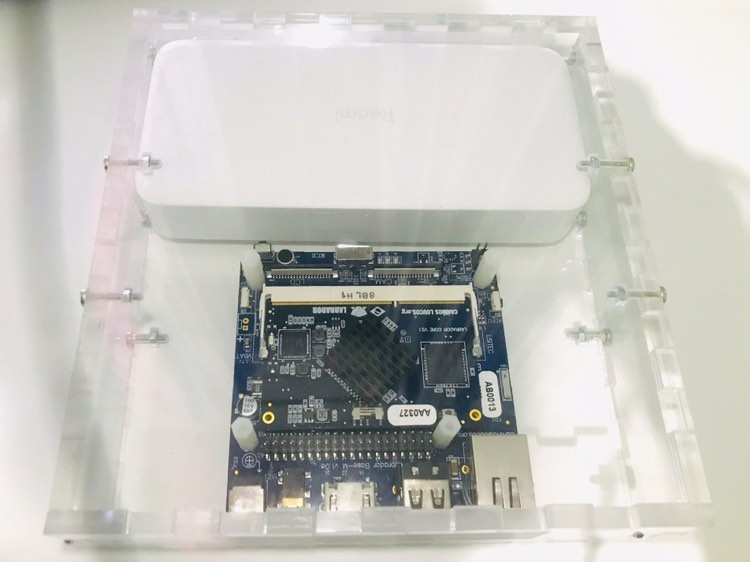
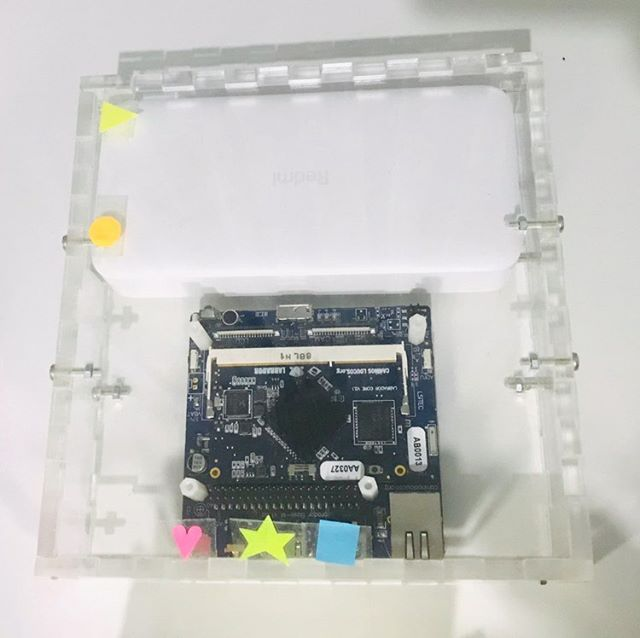
Imagens com adesivos

diff --git a/Manual.md b/Manual.md
@@ -1,89 +1,88 @@
 ## Manual de utilização do Kit-Aluno
 
-Olá! Com este material você irá aprender a montar o seu computador para que ele possa te auxiliar durante as aulas. Então pegue uma das maletas com os dispositivos e vamos nessa!
+Olá! Com este material você vai aprender a montar o seu computador para que ele possa te ajudar durante as aulas. Então pegue uma das caixinhas com os dispositivos e vamos nessa!
 
-O kit que você acaba de receber nada mais é do que um computador igual aos que você já deve conhecer, com a diferença de que ele é menor e portátil. As peças que você pode ver nele existem em qualquer computador comum, mas em outros computadores elas estão sempre conectadas e com uma carcaça protetora que impede que você possa vê-las, mas nesse kit você pode visualizá-las, conectar cada parte e entender o que cada uma faz. 
+O kit que você acaba de receber é um computador igual aos que você já deve conhecer, com a diferença de que ele é menor e portátil. As peças que você pode ver nele existem em qualquer computador comum, mas em outros computadores elas estão sempre conectadas e com uma carcaça protetora que impede você de ver o interior do computador, mas nesse kit você pode ver cada parte, conectar e entender o que cada uma faz. 
 
 ### Apresentando os dispositivos
 
-A seguir você conhecerá cada um dos componentes que fazem parte do kit que você recebeu.
+A seguir você vai conhecer cada um dos componentes que fazem parte do kit que você recebeu.
 
 - CPU
 
-![CPU](Imagens/cpu.png "CPU")
+![Posição da CPU](Imagens/1.jpg "Posição da CPU")
 
-Esta é a CPU do nosso kit. É nela que toda a mágica acontece e com ela é possível fazer contas, navegar na internet, jogar um jogo e fazer muitas outras coisas. Nela é possível ver um carregador portátil e uma placa de desenvolvimento, e para tudo funcionar e você poder usar o computador, será necessário conectar alguns dispositivos na CPU.
+Esta é a CPU do nosso kit. É nela que toda a mágica acontece e com ela é possível fazer contas, navegar na internet, jogar um jogo e fazer muitas outras coisas. Nela é possível ver um carregador portátil e uma placa de desenvolvimento, e para tudo funcionar e você poder usar o computador, será necessário conectar alguns fios na CPU.
 
 
 - Placa de Desenvolvimento
 
 ![Placa](Imagens/placa.png "Placa de Desenvolvimento")
 
-A placa de desenvolvimento é o coração do computador. Ela possui todos os conteúdos que você irá acessar e é com ela que você poderá fazer diversas tarefas. Ela recebe sinais do teclado e do mouse e envia sinais de imagem para o monitor. Para funcionar, ela precisa receber energia, por isso sempre que você for utilizá-la será necesário conectá-la na tomada ou em um carregador portátil.  
+A placa de desenvolvimento é o coração do computador. Ela possui todos os materiais que você irá acessar e é com ela que você poderá fazer diversas tarefas. Ela recebe palavras e números do teclado e do mouse e envia imagens para o monitor. Para funcionar, ela precisa receber energia, por isso sempre que você for utilizá-la será necesário conectá-la na tomada ou em um carregador portátil.
 
 
 - Carregador portátil
 
 ![Carregador](Imagens/carregador.png "carregador")
 
-O carregador portátil serve para fornecer energia para os componentes do nosso computador. Sem ele tudo precisaria ser alimentado de outra forma, como por meio de tomadas, por exemplo. No nosso computador, ele irá fornecer energia para a placa de desenvolvimento e para o monitor, os demais componentes receberão energia diretamente da placa de desenvolvimento, ela é um canal que leva energia do carregador portátil para o teclado e o mouse.
+O carregador portátil serve para fornecer energia para as diferentes partes do nosso computador. Sem ele tudo precisaria ser alimentado de outra forma, como por meio de tomadas, por exemplo. No nosso computador, ele irá fornecer energia para a placa de desenvolvimento e para o monitor, os demais componentes receberão energia diretamente da placa de desenvolvimento, ela é um canal que leva energia do carregador portátil para o teclado e o mouse.
 
 - Monitor
 
 ![Monitor](Imagens/monitor.png "Monitor")
 
-O monitor é o dispositivo que mostra para você o que está acontecendo no computador. Com ele nós podemos ver o que estamos fazendo e como o computador está respondendo às tarefas.
+O monitor é que mostra para você o que está acontecendo no computador. Com ele nós podemos ver o que estamos fazendo e como o computador está respondendo às tarefas.
 
 - Mouse
 
-![Mouse](Imagens/mouse.png "Mouse")
+![Mouse](Imagens/3.jpg "Mouse")
 
 Com o mouse é possível selecionar e arrastar os objetos que estão sendo mostrados pelo monitor. Ele pode ser usado por pessoas destras (mão direita dominante) ou canhotas (mão esquerda dominante) e possui sempre três teclas principais: A tecla esquerda, que serve para selecionar e arrastar os objetos; a tecla direita que serve para ver as opções de tarefas que podem ser realizadas em um objeto (como copiar e colar) e uma rodinha que serve para subir ou descer o conteúdo de uma janela.
 
 - Teclado
 
-![Teclado](Imagens/teclado.png "Teclado")
+![Teclado](Imagens/2.jpg "Teclado")
 
-Com o teclado é possível escrever palavras ou números, navegar por opçẽos em uma lista e acessar alguns comandos específicos do computador. Nele há diversas teclas e muitas delas realizam atividades que vão além de apenas escrever. 
+Com o teclado é possível escrever palavras ou números, navegar por opções em uma lista e acessar alguns comandos específicos do computador. Nele há diversas teclas e muitas delas realizam atividades que vão além de apenas escrever. 
 
 ### Montando o computador
 
-Para que você possa utilizar o computador, será necessário primeiro conectar todos os componentes. Eles possuem entradas e saídas e elas tem lugares corretos para serem conectados e funcionarem bem. 
+Para que você possa utilizar o computador, será necessário primeiro conectar todos as partes. Cada parte possui entradas e saídas e elas tem lugares corretos para serem conectados e funcionarem bem. 
 
-1. Para começar, certifique-se de que a CPU está posicionada para cima, como mostra a imagem a seguir:
+1. Para começar, tenha certeza que a CPU está posicionada para cima, como mostra a imagem a seguir:
 
 ![Posição da CPU](Imagens/1.jpg "Posição da CPU")
 
-2. Em seguida, pegue o fio que vem com o teclado e insira o conector que está na ponta deste fio em uma das duas entradas retangulares da placa de desenvolvimento, indicada na imagem a seguir. Certifique-se que o desenho do conector está virado para cima quando for tentar conectar, desta forma será possível inserir o conector com facilidade.
+2. Em seguida, pegue o fio que vem com o teclado e insira o conector com quadrado azul que está na ponta deste fio em uma das duas entradas com quadrado azul da placa de desenvolvimento, indicada na imagem a seguir. Para tudo encaixar direitinho, o quadrado azul do conector precisa estar virado para cima.
 
-![Conector do teclado](Imagens/2.jpg "Conector do teclado")
 ![Conectar teclado](Imagens/22.jpg "Conectar teclado")
 
-3. Agora pegue o fio que vem com o mouse e insira o conector que está na ponta deste fio na outra entrada retangular da placa de desenvolvimento. O desenho deste conector também precisa estar virado para cima para poder ser encaixado na entrada, como mostra a imagem a seguir:
+3. Agora pegue o fio que vem com o mouse e insira o conector com quadrado azul que está na ponta deste fio na outra entrada com quadrado azul da placa de desenvolvimento. O o quadrado azul do conector também precisa estar virado para cima para poder ser encaixado na entrada, como mostra a imagem a seguir:
 
-![Conector do mouse](Imagens/3.jpg "Conector do mouse")
 ![Conectar mouse](Imagens/33.jpg "Conectar mouse")
 
-4. Para que as imagens sejam exibidas no monitor, é necessário conectá-lo na placa de desenvolvimento. Para isso, pegue os dois fios que saem do monitor e verifique qual deles se parece com a imagem a seguir:
+4. Para que as imagens sejam exibidas no monitor, é necessário conectá-lo na placa de desenvolvimento. Para isso, pegue os dois fios que saem do monitor e verifique qual tem uma estrela verde, como mostra a imagem a seguir:
 
 ![Conector do monitor](Imagens/4.jpg "Conector do monitor")
 ![Conector do monitor](Imagens/44.jpg "Conector do monitor")
 
-Ao identificar este conector, posicione-o para que a parte mais larga fique para cima, como na imagem a seguir, e insira-o na entrada que está indicada na imagem a seguir:
+Ao encontrar este conector, insira-o com a estrela verde para cima, na entrada que também tem uma estrela verde, como na imagem a seguir:
 
 ![Conectar monitor](Imagens/444.jpg "Conectar monitor")
 
-5. Agora pegue o outro cabo do monitor e insira o conector do cabo em uma das entradas retangulares do carregador portátil. Desta vez, certifique-se que o desenho do conector esteja virado para baixo ao conectar, como mostra a imagem a seguir:
+5. Agora pegue o outro cabo do monitor e insira o conector do cabo com um triângulo amarelo na entrada com triângulo amarelo do carregador portátil. Antes de inserir confira se o triâgulo amarelo do conector está virado para cima, como mostra a imagem a seguir:
 
 ![Energizar monitor](Imagens/5.jpg "Energizar monitor")
 
-6. Quando todos os dispositivos estiverem conectados, como foi mostrado nos passos anteriores, é o momento de conectar a placa de desenvolvimento na energia e ligá-la. Para isso, pegue o cabo que possui um conector redondo em uma das pontas e um conector retangular na outra. Insira o conector redondo do cabo na entrada em forma de círculo da placa de desenvolvimento, como mostra a imagem a seguir:
+6. Quando todos os dispositivos estiverem conectados, como foi mostrado nos passos anteriores, é o momento de conectar a placa de desenvolvimento na energia e ligá-la. Para isso, pegue o cabo que possui um conector redondo, com um coração rosa em uma das pontas e um conector com bolinha laranja na outra. Insira o conector com coração rosa na entrada que também possui um coração rosa da placa de desenvolvimento, como mostra a imagem a seguir:
 
 ![Conector da placa de desenvolvimento](Imagens/6.jpg "Conector da placa de desenvolvimento")
+
 ![Conectar placa de desenvolvimento](Imagens/66.jpg "Conectar placa de desenvolvimento")
 
-Agora insira o conector da outra ponta do fio na entrada retangular do carregador portátil. Antes de inserir, certifique-se que o conector está com o desenho virado para baixo, como mostra a imagem a seguir:
+Agora insira o conector com bolinha laranja da outra ponta do fio na entrada com bolinha laranja do carregador portátil. Antes de inserir, tenha certeza que a bolinha laranja do conector está virada para cima, como mostra a imagem a seguir:
 
 ![Energizar placa de desenvolvimento](Imagens/666.jpg "Energizar placa de desenvolvimento")
 
-Pronto, agora todos os componentes estão conectados e a placa de desenvolvimento está inicializando automaticamente. Se tudo estiver conectado corretamente, em alguns instantes uma imagem aparecerá no monitor e será possível digitar com o teclado e utilizar o mouse.
+Pronto, agora todos os componentes estão conectados e a placa de desenvolvimento está iniciando automaticamente. Se tudo estiver conectado certinho, em alguns instantes uma imagem aparecerá no monitor e então você poderá digitar com o teclado e utilizar o mouse.
